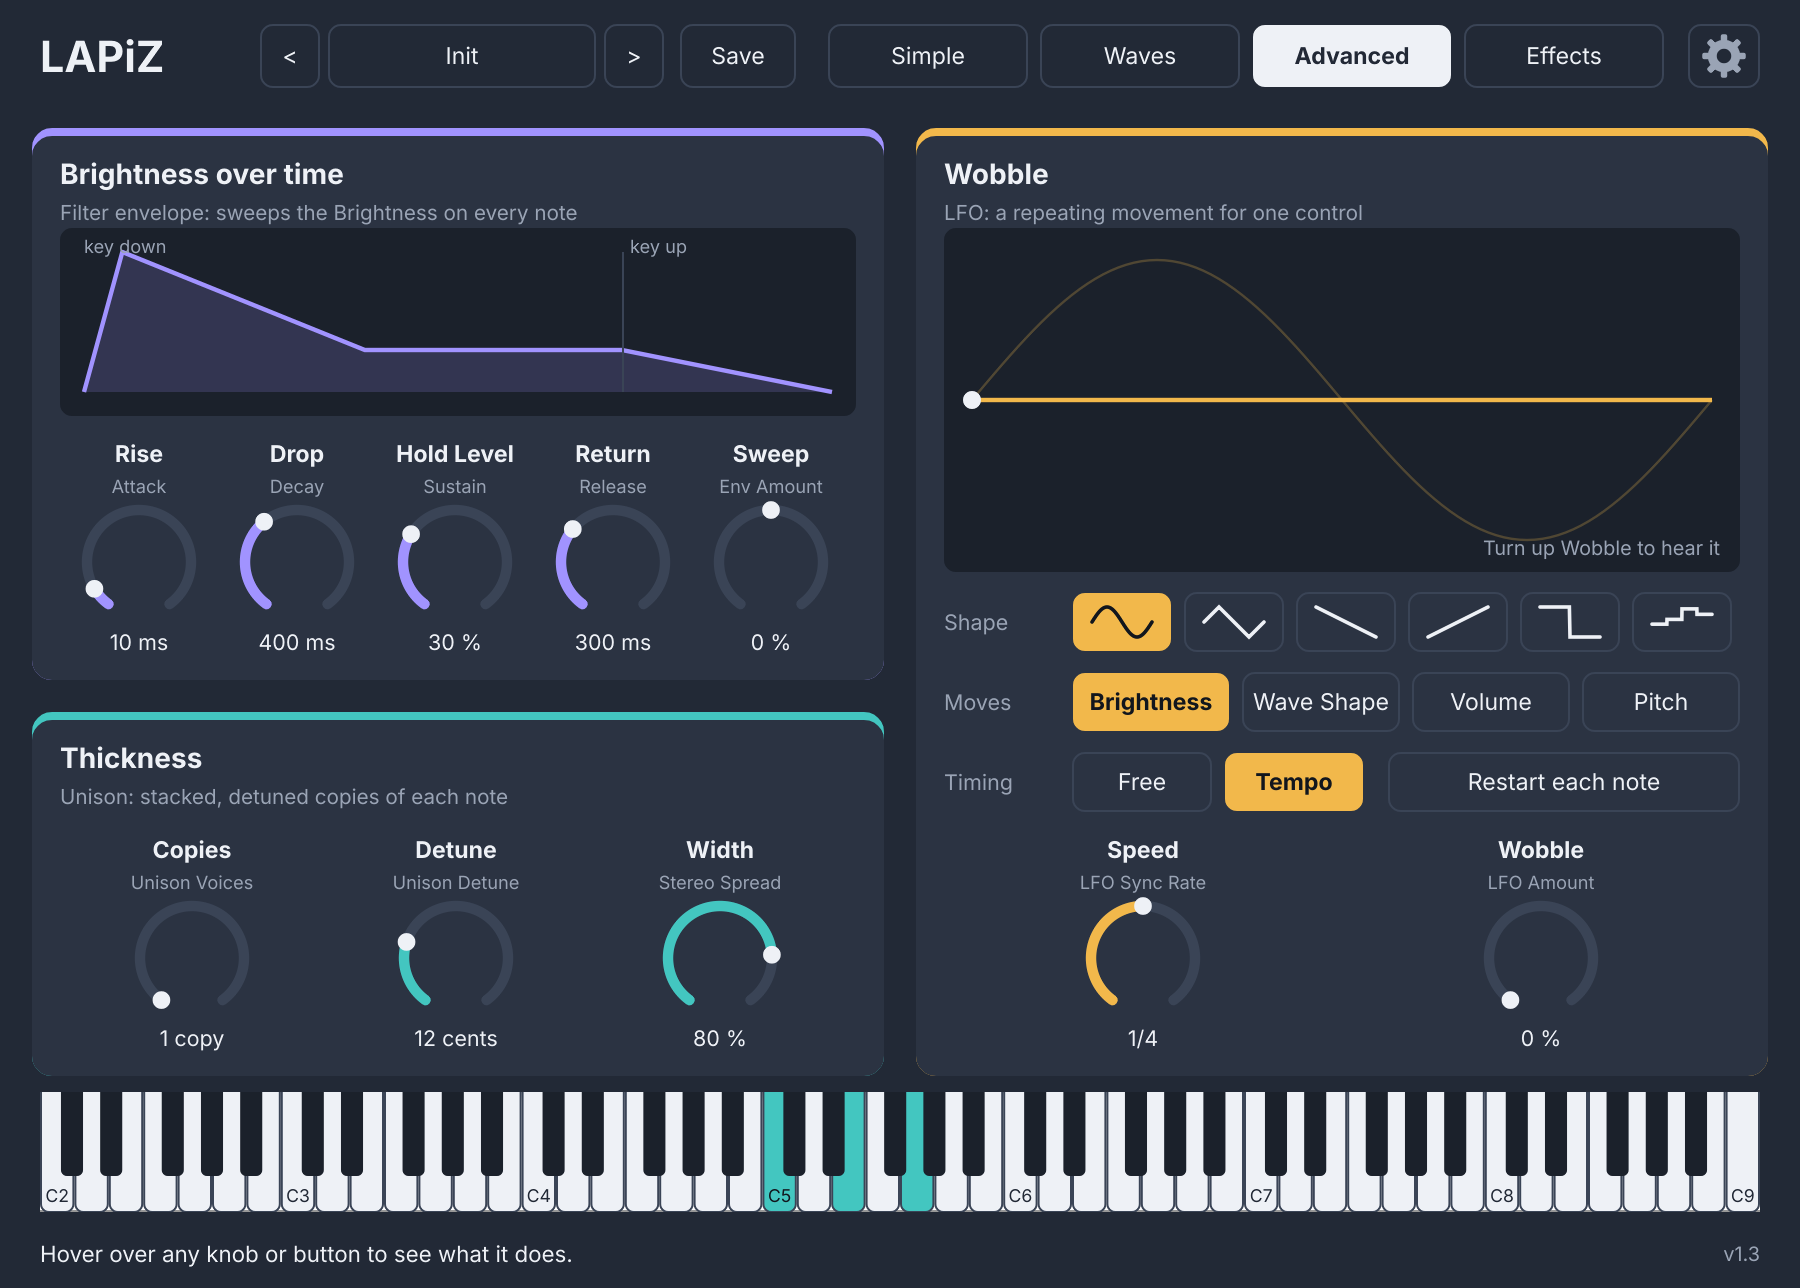
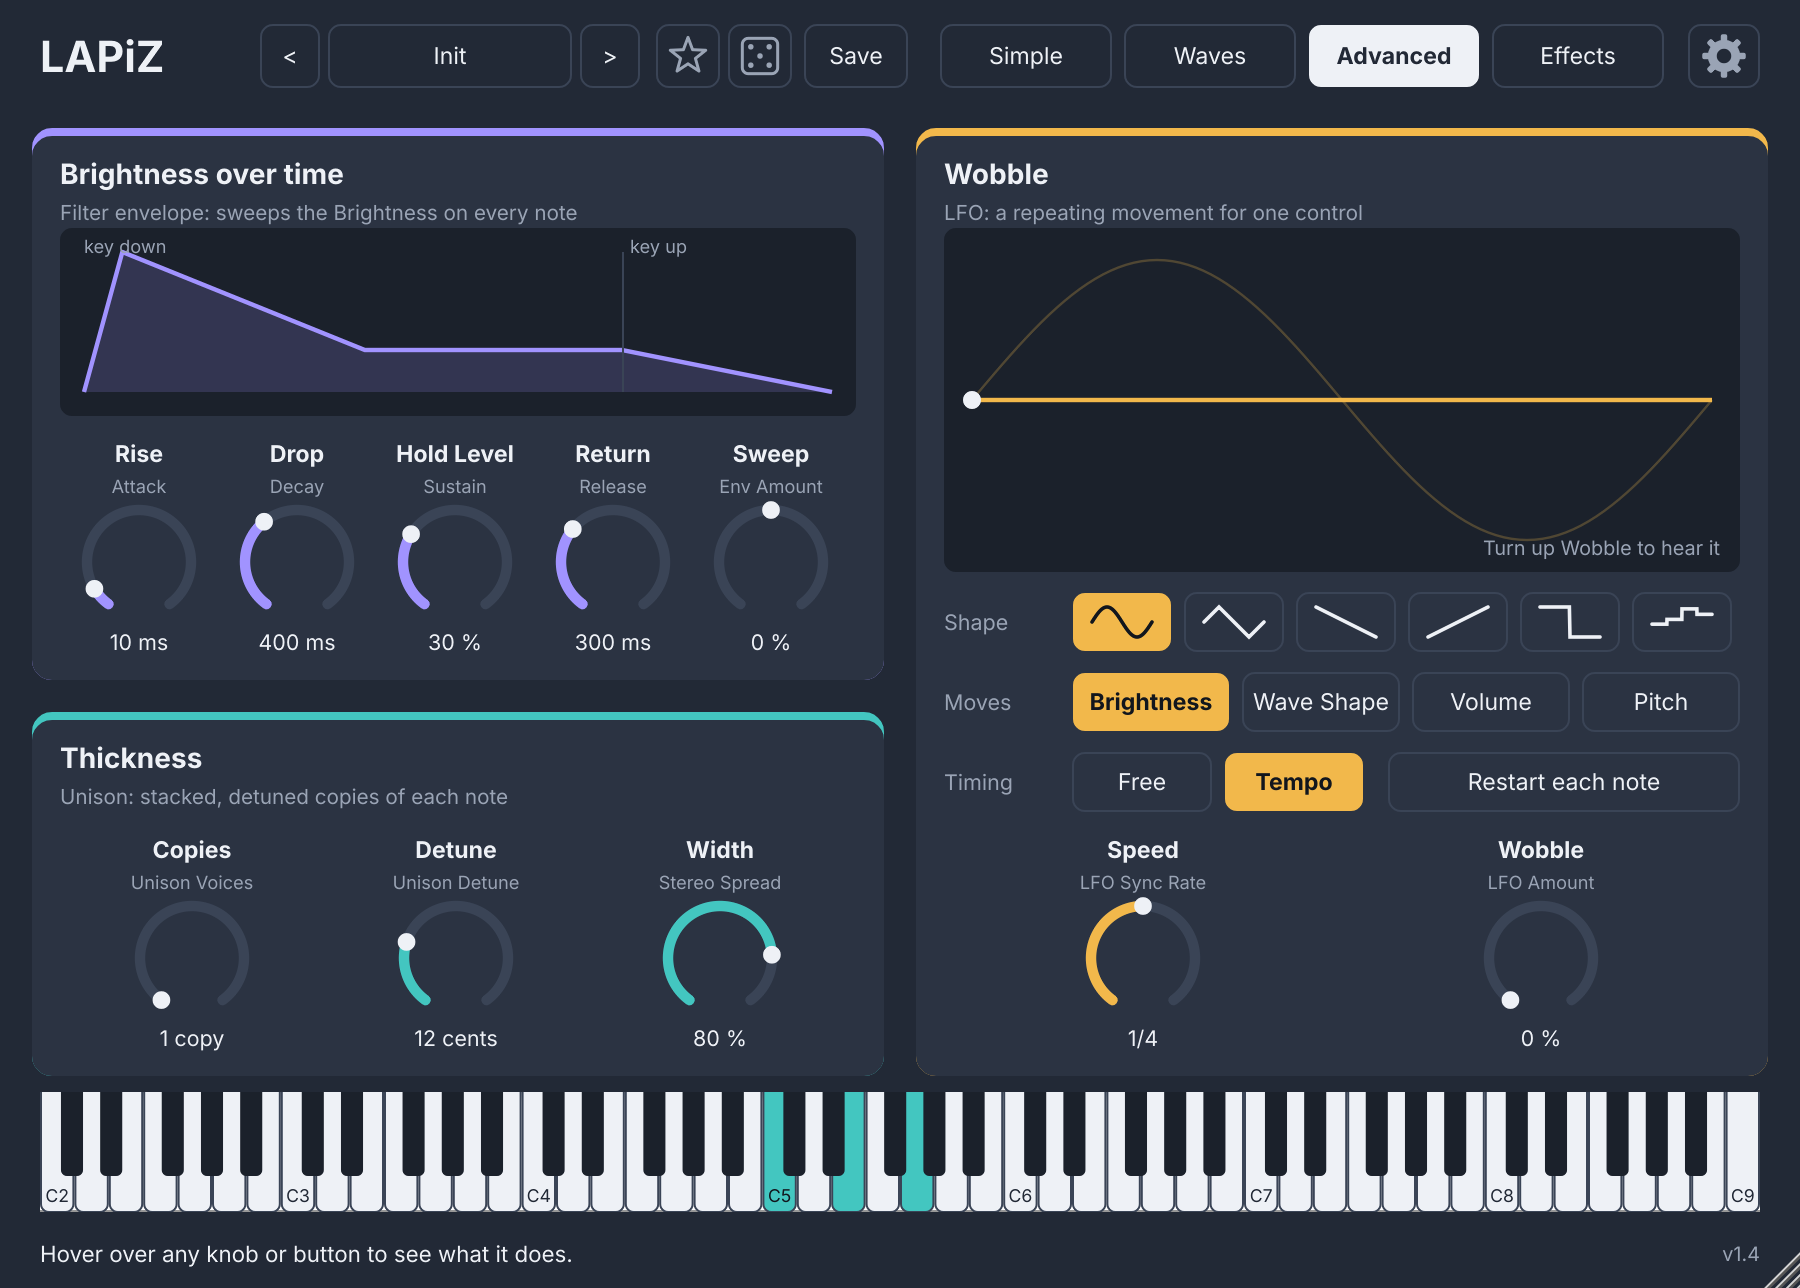
Release prep for v1.4: website
- Version 1.4 and LAPiZ-1.4.0-setup.exe
- Mentions resizing, favorites and Surprise me
- Tab screenshots redrawn (preset bar now has the star and die)

Claude-Session: https://claude.ai/code/session_01BeEjqdC9GpeQ39fFM3y2UH

diff --git a/docs/index.html b/docs/index.html
@@ -193,7 +193,7 @@ footer .wrap { display: grid; gap: 8px; }
       <div>
         <h1 class="wordmark" aria-label="LAPiZ">LAP<span class="i">i</span>Z</h1>
         <p class="tagline">A free wavetable synth for FL Studio that tells you what every knob does.</p>
-        <p class="facts">VST3 for Windows. Open source under the AGPLv3. Version 1.3, and it keeps itself up to date.</p>
+        <p class="facts">VST3 for Windows. Open source under the AGPLv3. Version 1.4, and it keeps itself up to date.</p>
         <div class="actions">
           <a class="button" href="https://github.com/callofguns/HELiX-LAPiZ/releases/latest">Download LAPiZ</a>
           <a class="quiet-link" href="#install">How to install</a>
@@ -267,7 +267,7 @@ footer .wrap { display: grid; gap: 8px; }
     <div class="wrap">
       <div class="section-head">
         <h2>Four tabs, from simple to deep</h2>
-        <p class="lede">Start on Simple. Everything else is there when you want it. A piano runs along the bottom of every tab, so you can play LAPiZ with the mouse even without a MIDI keyboard, and see the notes FL Studio is playing.</p>
+        <p class="lede">Start on Simple. Everything else is there when you want it. A piano runs along the bottom of every tab, so you can play LAPiZ with the mouse even without a MIDI keyboard, and see the notes FL Studio is playing. Make the window any size you like, from 75 % to 200 %.</p>
       </div>
       <div class="tabbar" role="tablist" aria-label="LAPiZ tabs">
         <button role="tab" id="tab-simple" aria-controls="panel" aria-selected="true" data-tab="simple">Simple</button>
@@ -290,7 +290,7 @@ footer .wrap { display: grid; gap: 8px; }
     <div class="wrap">
       <div class="section-head">
         <h2>102 sounds to start from</h2>
-        <p class="lede">LAPiZ sounds soft and a little magical, and sits in the middle of the mix: mostly pads and arps, plus plucks, keys, bells, gentle leads, textures and round basses. Pick one from the preset bar at the top of the window, change anything you like, then click Save to keep your version. Your presets are saved in Documents\LAPiZ\Presets and show up in every project.</p>
+        <p class="lede">LAPiZ sounds soft and a little magical, and sits in the middle of the mix: mostly pads and arps, plus plucks, keys, bells, gentle leads, textures and round basses. Pick one from the preset bar at the top of the window, change anything you like, then click Save to keep your version. Your presets are saved in Documents\LAPiZ\Presets and show up in every project. Click the star to keep your favorites at the top of the list, or roll the die for <b>Surprise me</b>: a brand-new sound made at random, always a musical one.</p>
       </div>
       <div class="patches">
         <div class="patch-row"><h3>Pad<span class="count">30</span></h3><ul><li>Warm Pad</li> <li>Glass Pad</li> <li>Ultramarine</li> <li>Gold Flecks</li> <li>Moonlit Haze</li> <li>Velvet Air</li> <li>Dream Bloom</li> <li>Starlit Drift</li> <li>Slow Tide</li> <li>Cloud Walk</li> <li>Lullaby</li> <li>Hazy Memory</li> <li>Enchanted Forest</li> <li>Crystal Cavern</li> <li>Twilight</li> <li>Aurora</li> <li>Floating</li> <li>Soft Focus</li> <li>Warm Blanket</li> <li>Spellbound</li> <li>Halo</li> <li>Pulse Pad</li> <li>Breathing Pad</li> <li>Sunrise</li> <li>Night Garden</li> <li>Distant Lights</li> <li>Mist</li> <li>Ember Glow</li> <li>Fairy Dust</li> <li>Velvet Glow</li></ul></div>
@@ -334,7 +334,7 @@ footer .wrap { display: grid; gap: 8px; }
         <p class="lede">LAPiZ runs on 64-bit Windows in FL Studio or any other music software that loads VST3 plugins.</p>
       </div>
       <ol class="steps">
-        <li><p>Download <b>LAPiZ-1.3.0-setup.exe</b> from the <a href="https://github.com/callofguns/HELiX-LAPiZ/releases/latest">latest release on GitHub</a>.</p></li>
+        <li><p>Download <b>LAPiZ-1.4.0-setup.exe</b> from the <a href="https://github.com/callofguns/HELiX-LAPiZ/releases/latest">latest release on GitHub</a>.</p></li>
         <li><p>Run it. Windows may warn that the app is from an unknown publisher, because LAPiZ isn't code-signed yet. Click <b>More info</b>, then <b>Run anyway</b>.</p></li>
         <li><p>In FL Studio, open <b>Options &gt; Manage plugins</b> and click <b>Find installed plugins</b>.</p></li>
         <li><p>Find LAPiZ in the list (made by HELiX) and click its star. It now shows up in the plugin browser and the Channel Rack's + menu.</p></li>
